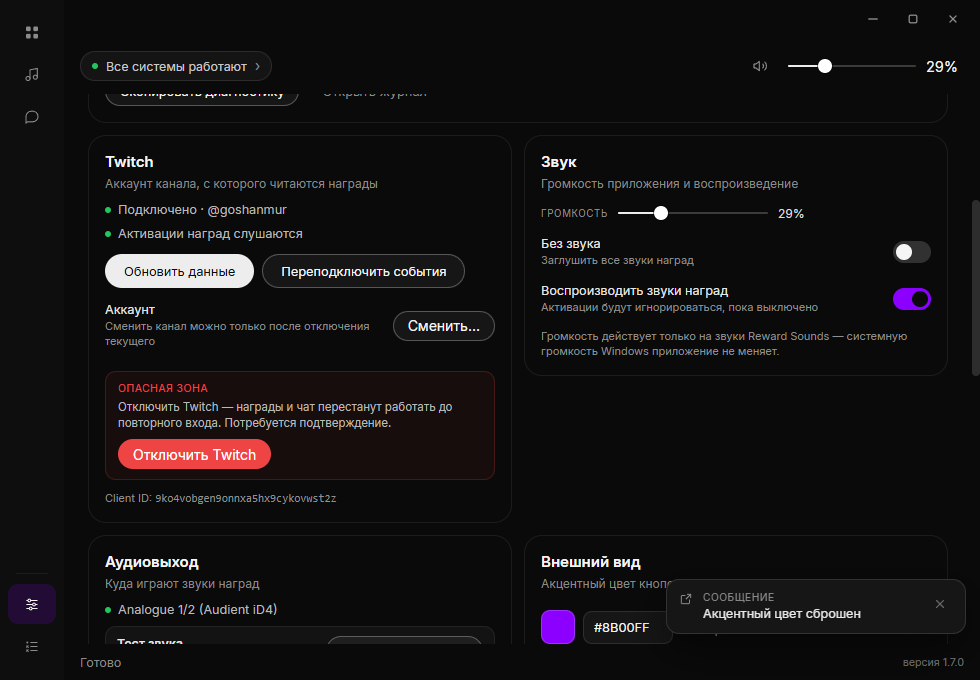
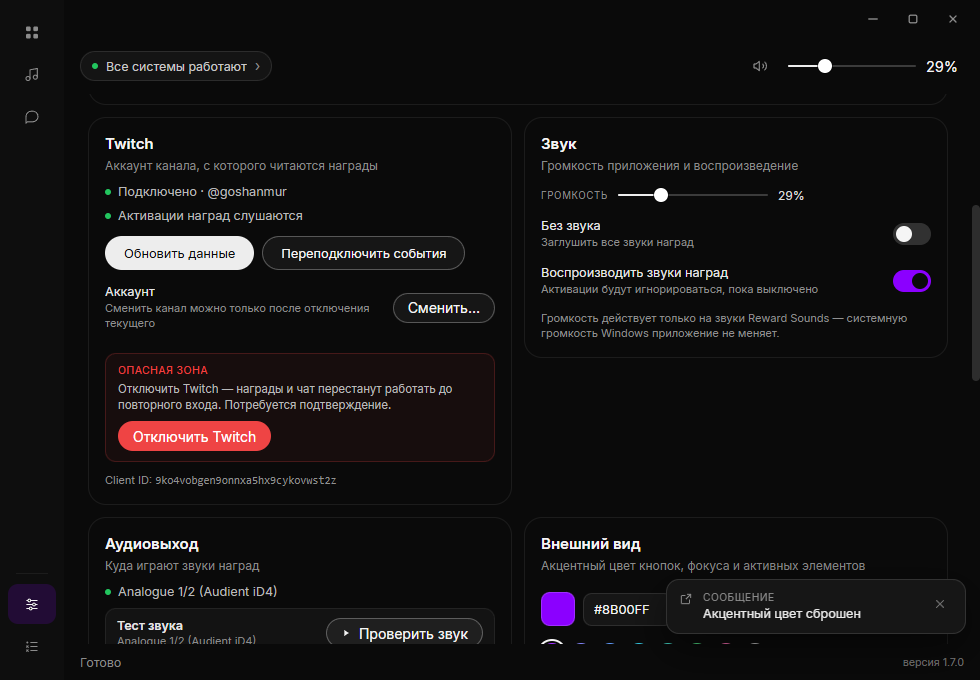
fix: P1/P2 по подтверждению UX-агента — контраст акцента и семантика
- accentInk выбирает более контрастный текст (синий/зелёный — тёмный):
  контраст 5.38/8.69 вместо 3.68/2.28;
- журнал: уровень ИНФО больше не зависит от акцента (--info #7DD3FC);
- нейтральные флаги «музыка»/«ввод текста», активная вкладка чуть мягче;
- список: play 32x32, пустой статус без прочерка; «Очистить» журнал —
  ghost-red с иконкой корзины;
- CSS: fallback --accent-text, --info, чистка мёртвых правил сайдбара/флагов;
- UI-тест на читаемость текста акцентной кнопки; 65 UI-проверок зелёные.

diff --git a/reward-sounds-tauri/src-tauri/ui/screens.css b/reward-sounds-tauri/src-tauri/ui/screens.css
@@ -490,7 +490,7 @@ button.dots:hover { color: #F5F5F5; background: rgba(255,255,255,.07); }
 
 /* ===== контраст мелкого текста (по UX-аудиту, WCAG AA) ===== */
 .player-state, .queue-prefetch, .playing-badge, .music-badge,
-.listen-inline, .log-level-info, .state-ok .state-icon { color: var(--accent-text); }
+.listen-inline { color: var(--accent-text); }
 .music-badge { border-color: rgba(201,167,255,.5); }
 .version { color: rgba(181,181,181,.8); }
 .footer { color: rgba(168,168,168,.85); }
@@ -663,8 +663,7 @@ button.dots { min-width: 30px; min-height: 28px; display: inline-flex; align-ite
   #sidebar .nav-label { display: none; }
   #sidebar .nav-item { justify-content: center; padding: 0; gap: 0; height: 40px; }
   #sidebar .nav-item span { display: none; }
-  #sidebar .sidebar-bottom { display: none; }
-  #sidebar .nav-item.active { background: rgba(var(--accent-rgb),.16); color: #F5F5F5; }
+    #sidebar .nav-item.active { background: rgba(var(--accent-rgb),.16); color: #F5F5F5; }
   .topbar { padding: 0 16px; }
   .footer { padding: 0 16px; }
 }
@@ -808,17 +807,10 @@ button:disabled, .player-round:disabled, .player-play:disabled, .player-text:dis
 .sidebar-system .nav-label { margin-top: 0; }
 .sidebar-main .nav-label:first-child { margin-top: 16px; }
 @media (max-width: 1120px) {
-  .sidebar-system { margin-top: auto; padding-top: 0; }
-}
+  }
 /* одинаковая высота карточек: место под действия и флаги фиксировано */
 .reward-card { min-height: 144px; }
 .reward-card .card-actions { min-height: 26px; margin-top: 8px; align-items: flex-start; }
-.tile-flags { position: absolute; left: -4px; top: -4px; display: flex; gap: 2px; }
-.tile-flag {
-  min-width: 16px; height: 16px; padding: 0 3px; border-radius: 8px; background: #0A0A0A;
-  border: 1px solid rgba(255,255,255,.24); color: #DADADA; font-size: 8.6px; line-height: 14px;
-  text-align: center; font-weight: 600;
-}
 /* одинаковая высота: в компактной карточке пустой звук не переносится */
 .reward-card .soundchip.empty { gap: 6px; }
 .reward-card .soundchip.empty .fname { white-space: nowrap; overflow: hidden; text-overflow: ellipsis; }
@@ -826,10 +818,8 @@ button:disabled, .player-round:disabled, .player-play:disabled, .player-text:dis
 /* «играет»: мягкая пульсация и разделитель системной группы */
 .tile-playing { animation: playing-pulse 2.4s ease-in-out infinite; }
 @keyframes playing-pulse { 0%, 100% { box-shadow: 0 0 0 0 rgba(var(--accent-rgb),.0); } 50% { box-shadow: 0 0 0 3px rgba(var(--accent-rgb),.18); } }
-.sidebar-system { border-top: 1px solid rgba(255,255,255,.06); }
 @media (max-width: 1120px) {
-  .sidebar-system { border-top: 0; }
-}
+  }
 /* ===== правки по ревью UX-агента ===== */
 /* сайдбар: «СИСТЕМА» действительно внизу (один margin-top:auto) */
 .sidebar-main { flex: 1 1 auto; min-height: 0; }
@@ -870,7 +860,7 @@ button:disabled, .player-round:disabled, .player-play:disabled, .player-text:dis
   border-radius: 7px; padding: 1px 6px; white-space: nowrap;
 }
 .rr-actions { width: 110px; }
-.rr-sound .play { width: 30px; height: 30px; flex: 0 0 30px; }
+.rr-sound .play { width: 32px; height: 32px; flex: 0 0 32px; }
 @media (max-width: 980px) {
   .reward-row { grid-template-columns: 24px minmax(0, 1.2fr) minmax(0, .9fr) 70px 70px 96px 22px; }
   .rr-actions { width: 96px; }
@@ -897,5 +887,5 @@ button:disabled, .player-round:disabled, .player-play:disabled, .player-text:dis
   .appearance-preview { display: none; }
 }
 /* акцент: активная вкладка в полном сайдбаре и равная высота карточек */
-.sidebar .nav-item.active { background: rgba(var(--accent-rgb), .16); color: #F5F5F5; }
+.sidebar .nav-item.active { background: rgba(var(--accent-rgb), .13); color: #F5F5F5; }
 .reward-card { min-height: 168px; }

diff --git a/reward-sounds-tauri/src-tauri/ui/js/rewards.js b/reward-sounds-tauri/src-tauri/ui/js/rewards.js
@@ -428,7 +428,7 @@ function rowHtml(reward, view) {
       </div>
       <div class="rr-sound">${file ? `<button class="play sound-play" title="${file.exists ? 'Прослушать' : 'Файл не найден'}"${file.exists ? '' : ' disabled'}>${icons.play}</button><span class="rr-fname" title="${escapeHtml(file.path)}">${escapeHtml(file.name)}</span><span class="rr-fmt">${file.exists ? escapeHtml(file.meta) : 'файл не найден'}</span>` : '<span class="rr-muted">Звук не выбран</span>'}</div>
       <div class="rr-volume">${file ? `<div class="slider sm" data-reward-volume="${escapeHtml(reward.id)}"><div class="track"></div><div class="fill" style="width:${(volume / 2) * 100}%"></div><div class="knob" style="left:${(volume / 2) * 100}%"></div></div><span class="local-value">${Math.round(volume * 100)}%</span>` : '<span class="rr-muted">—</span>'}</div>
-      <div class="rr-status">${playing ? `<span class="rr-playing" title="играет ×${playing}">играет${playing > 1 ? ` ×${playing}` : ''}</span>` : '<span class="rr-muted">—</span>'}</div>
+      <div class="rr-status">${playing ? `<span class="rr-playing" title="играет ×${playing}">играет${playing > 1 ? ` ×${playing}` : ''}</span>` : ''}</div>
       <div class="rr-actions">${actionsHtml(reward, view)}</div>
       <button class="dots" data-dots title="Действия с наградой">•••</button>
     </div>`;

diff --git a/reward-sounds-tauri/src-tauri/ui/js/bridge.js b/reward-sounds-tauri/src-tauri/ui/js/bridge.js
@@ -362,7 +362,7 @@ export function normalizeAccent(input) {
 /** Текст поверх акцентной заливки: тёмный на светлом, белый на тёмном. */
 export function accentInk(color) {
   const normalized = normalizeAccent(color) || normalizeAccent(DEFAULT_ACCENT);
-  return relativeLuminance(normalized.hex) > 0.42 ? '#0A0A0A' : '#FFFFFF';
+  return contrastRatio(normalized.hex, '#0A0A0A') >= contrastRatio(normalized.hex, '#FFFFFF') ? '#0A0A0A' : '#FFFFFF';
 }
 
 /** Немедленно применяет акцент ко всему интерфейсу и кэширует его. */

diff --git a/reward-sounds-tauri/src-tauri/ui/js/log.js b/reward-sounds-tauri/src-tauri/ui/js/log.js
@@ -43,7 +43,7 @@ function logPageHtml() {
       </div>
       <div class="head-actions">
         <button class="btn btn-secondary" id="log-open-folder">${icons.folder} Папка журнала</button>
-        <button class="btn btn-secondary" id="log-clear">Очистить</button>
+        <button class="btn btn-ghost btn-danger-ghost" id="log-clear">${icons.trash} Очистить</button>
         <button class="btn btn-secondary" id="log-refresh">Обновить</button>
         <button class="btn btn-icon btn-ghost" id="log-menu" title="Действия">•••</button>
       </div>

diff --git a/reward-sounds-tauri/src-tauri/ui/app.css b/reward-sounds-tauri/src-tauri/ui/app.css
@@ -282,7 +282,7 @@ select.select:focus-visible {
 .log-level { font-size: 10.2px; letter-spacing: .3px; text-transform: uppercase; color: #8B8B8B; }
 .log-level-error { color: #EF4444; }
 .log-level-warn { color: #F59E0B; }
-.log-level-info { color: var(--accent-text); }
+.log-level-info { color: var(--info); }
 .log-message { font-size: 12.4px; color: #D6D6D6; line-height: 17px; overflow-wrap: anywhere; }
 .log-empty { padding: 28px; text-align: center; color: #8B8B8B; font-size: 12.6px; }
 

diff --git a/reward-sounds-tauri/src-tauri/ui/style.css b/reward-sounds-tauri/src-tauri/ui/style.css
@@ -2,7 +2,9 @@
   /* Акцент интерфейса: меняется настройкой «Внешний вид» (--accent-rgb — для rgba). */
   --accent: #8B00FF;
   --accent-rgb: 139, 0, 255;
+  --accent-text: #C9A7FF;
   --accent-text: color-mix(in srgb, var(--accent) 45%, #FFFFFF);
+  --info: #7DD3FC;
   --ok: #22C55E;
   --warn: #F59E0B;
   --danger: #EF4444;

diff --git a/reward-sounds-tauri/README.md b/reward-sounds-tauri/README.md
@@ -105,7 +105,7 @@ cargo build --release
   (настройки музыки, валидация путей, IRC-парсер, команды, троттлинг).
 - `cargo test --release` в `reward-sounds` — 98 юнит-тестов библиотеки
   (+ 5 интеграционных), включая оверлей и чат-страницу.
-- `node tests-ui/run.mjs` из `reward-sounds-tauri` — **64 проверки** реального
+- `node tests-ui/run.mjs` из `reward-sounds-tauri` — **65 проверок** реального
   окна через DevTools Protocol: вкладки, фильтры, модалки, чат и оверлей,
   тосты, адаптив 980×680, журнал, ошибки IPC, окно, геометрия. Требуется
   Node.js 20+, приложение должно быть закрыто. Подробнее — `tests-ui/README.md`.

diff --git a/reward-sounds-tauri/tests-ui/README.md b/reward-sounds-tauri/tests-ui/README.md
@@ -1,7 +1,7 @@
 # UI-тесты Reward Sounds (Tauri)
 
 Смоук/интерактивные тесты реального окна через Chrome DevTools Protocol.
-Сейчас — **64 проверки**, все проходят (`64 passed, 0 failed`). Тесты безопасны:
+Сейчас — **65 проверок**, все проходят (`65 passed, 0 failed`). Тесты безопасны:
 не создают и не удаляют награды, не меняют цену музыки, не трогают привязки
 звуков, не пишут сообщения в реальный чат, не очищают настоящий журнал.
 Меняются только UI-настройки, которые тест возвращает назад (например,

diff --git a/README.md b/README.md
@@ -98,7 +98,7 @@ node tests-ui\run.mjs
 
 UI-тесты поднимают exe с `REWARD_SOUNDS_DEVTOOLS_PORT` (порт CDP) и проверяют
 загрузку, все вкладки (включая чат и чат-оверлей), фильтры, модалки, статус-хаб,
-тосты, адаптив 980×680, журнал, ошибки IPC, окно и геометрию. Сейчас: 64 проверки.
+тосты, адаптив 980×680, журнал, ошибки IPC, окно и геометрию. Сейчас: 65 проверок.
 Подробнее — `reward-sounds-tauri/tests-ui/README.md`.
 
 ## Git
